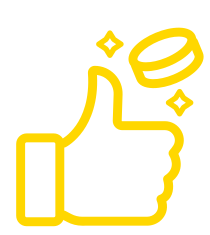
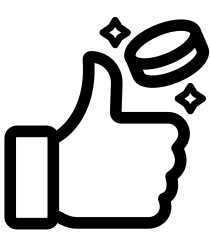
modified:   src/app/assets/coin-toss3.png 	modified:   src/app/toolbox/page.tsx

diff --git a/src/app/toolbox/page.tsx b/src/app/toolbox/page.tsx
@@ -4,25 +4,49 @@
 import React from 'react';
 import { DefaultHeader } from '@/components/DefaultHeader';
 import { NavbarTools } from '@/components/NavbarTools';
-import Image from 'next/image';
+import Image, { StaticImageData } from 'next/image'; // Import StaticImageData for type safety
 import { useRouter } from 'next/navigation';
-import toolboxImage from '../../app/assets/tool225.png';
-import { CloudSun, Coin, GraduationCap, BriefcaseBusiness, type LucideIcon } from 'lucide-react';
+import toolboxImage from '../../app/assets/tool225.png'; // Ensure this path is correct
+import ThunderstormOutlinedIcon from '@mui/icons-material/ThunderstormOutlined';
+import SchoolOutlinedIcon from '@mui/icons-material/SchoolOutlined';
+import BusinessCenterOutlinedIcon from '@mui/icons-material/BusinessCenterOutlined';
+
+// Corrected import path for cointossIcon
+import cointossIcon from '../../app/assets/coin-toss3.png';
 
 interface ToolButtonInfo {
   name: string;
   path: string;
-  icon: LucideIcon;
+  icon: React.ReactNode; // Icon will be a fully formed React element
 }
 
 export default function ToolboxPage() {
   const router = useRouter();
 
+  const iconSizeStyle = { fontSize: '36px' }; // For MUI Icons, equivalent to h-9 w-9 approx.
+  const imageSize = 36; // For Next/Image width & height
+
   const toolButtons: ToolButtonInfo[] = [
-    { name: 'Weather Center', path: '/toolbox/weather', icon: CloudSun },
-    { name: 'Coin Toss', path: '/toolbox/cointoss', icon: Coin },
-    { name: 'Umpire Classroom', path: '/toolbox/umpireclassroom', icon: GraduationCap },
-    { name: 'Assignor Info', path: '/toolbox/officialroster', icon: BriefcaseBusiness },
+    {
+      name: 'Weather Center',
+      path: '/toolbox/weather',
+      icon: <ThunderstormOutlinedIcon sx={iconSizeStyle} className="mb-1" />
+    },
+    {
+      name: 'Coin Toss',
+      path: '/toolbox/cointoss',
+      icon: <Image src={cointossIcon} alt="Coin Toss Icon" width={imageSize} height={imageSize} className="mb-1" />
+    },
+    {
+      name: 'Umpire Classroom',
+      path: '/toolbox/umpireclassroom',
+      icon: <SchoolOutlinedIcon sx={iconSizeStyle} className="mb-1" />
+    },
+    {
+      name: 'Assignor Info',
+      path: '/toolbox/officialroster',
+      icon: <BusinessCenterOutlinedIcon sx={iconSizeStyle} className="mb-1" />
+    },
   ];
 
   const handleToolClick = (path: string) => {
@@ -35,7 +59,7 @@ export default function ToolboxPage() {
       <div className="flex-grow relative w-full">
         {/* Page Title */}
         <span
-          className="absolute font-bold text-3xl text-white"
+          className="absolute font-bold text-3xl text-white" // Assuming text-white is desired against bg-background
           style={{
             top: '90px',
             left: '50%',
@@ -50,19 +74,22 @@ export default function ToolboxPage() {
           src={toolboxImage}
           alt="Toolbox Icon"
           data-ai-hint="tools wrench hammer"
-          width={225}
-          height={129}
+          width={225} // Intrinsic width of toolboxImage
+          height={129} // Intrinsic height of toolboxImage
           style={{
             position: 'absolute',
-            top: '130px',
+            top: '130px', // Ensure this doesn't overlap with the title too much
             left: '50%',
             transform: 'translateX(-50%)',
-            width: 'auto',
+            // width & height props on Next/Image define aspect ratio.
+            // These inline styles will affect the displayed size.
+            // If you want it to be 129px high and width auto, ensure width/height props match aspect ratio.
+            width: 'auto', // This will make the image scale based on the height, respecting aspect ratio
             height: '129px',
           }}
           priority
           onError={(e: any) => {
-            e.currentTarget.onerror = null; 
+            e.currentTarget.onerror = null;
             e.currentTarget.src = 'https://placehold.co/225x129.png';
           }}
         />
@@ -71,21 +98,22 @@ export default function ToolboxPage() {
         <div className="absolute bottom-[90px] left-0 right-0 flex justify-center">
           <div className="grid grid-cols-2 gap-y-[25px] gap-x-[25px] p-4">
             {toolButtons.map((buttonInfo) => {
-              const IconComponent = buttonInfo.icon;
+              // const IconComponent = buttonInfo.icon; // Not needed anymore as buttonInfo.icon is the element
               return (
                 <button
                   key={buttonInfo.name}
                   onClick={() => handleToolClick(buttonInfo.path)}
                   className="
                     w-[100px] h-[100px]
-                    bg-white text-black
+                    bg-white text-black 
                     border-2 border-primary
                     shadow-[0_0_8px_4px_rgba(0,0,0,.5)] rounded-md
                     hover:scale-105 hover:bg-gray-50 transition-transform relative
                     flex flex-col items-center justify-center p-1
                   "
                 >
-                  <IconComponent className="h-9 w-9 text-black mb-1" />
+                  {/* Render the icon element directly */}
+                  {buttonInfo.icon}
                   <span
                     className="text-black font-semibold text-xs text-center w-full px-1 truncate absolute bottom-1"
                   >
